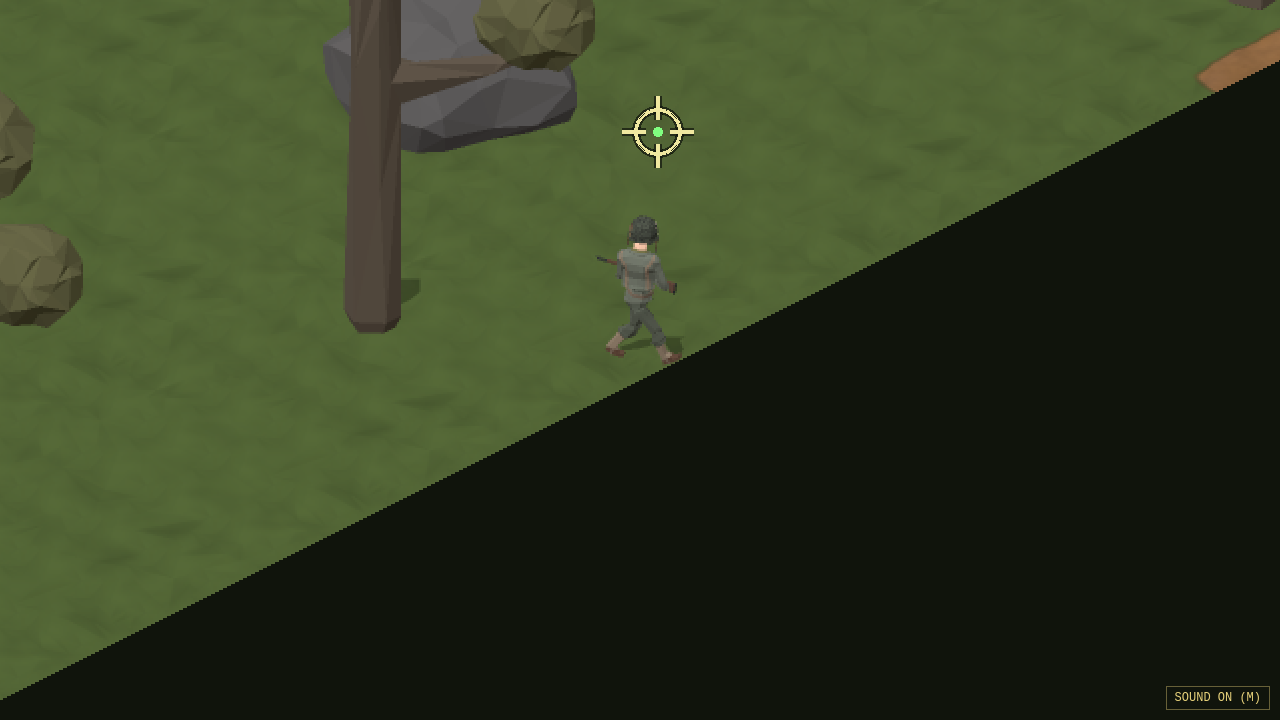
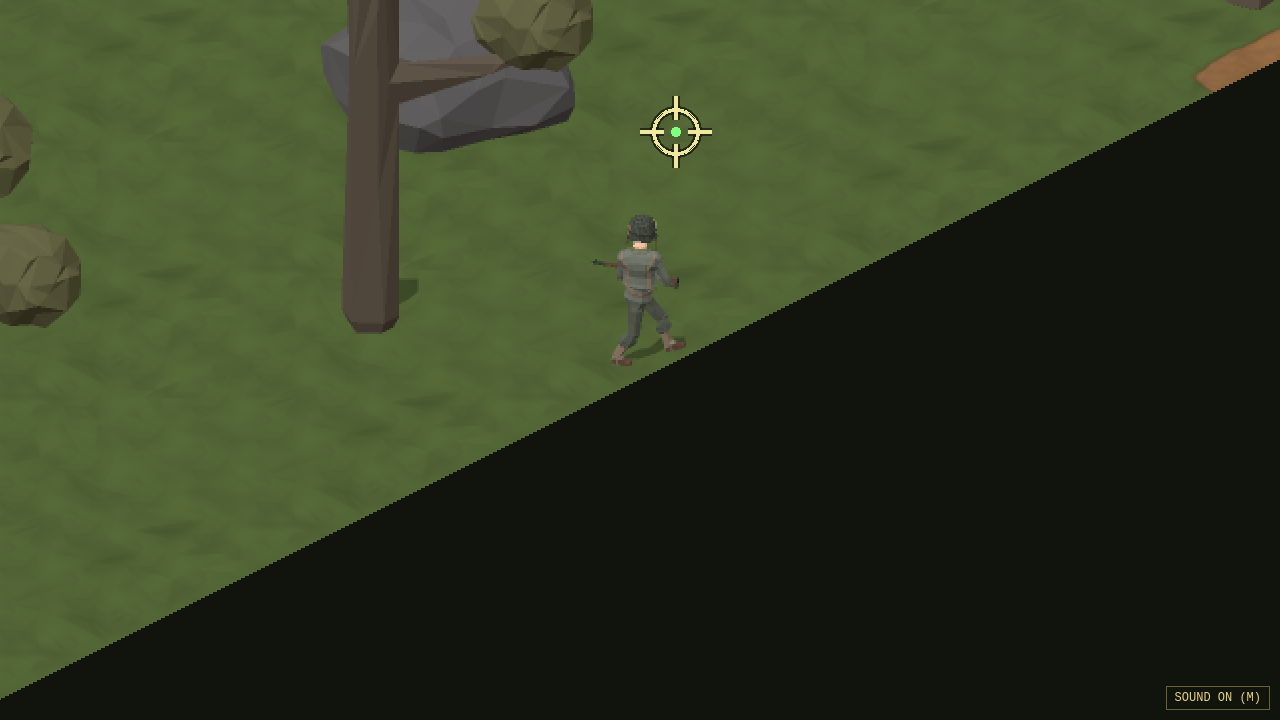
G17: one ranger declaration with split.whole (FB-126 verified): the whole body, ranger_legs and ranger_torso from one render and one framing; ranger_split removed; build-assets enters a whole split as ranger + ranger_legs + ranger_torso; Field.ts and the aim strafe check use them

Changed region(s): [[0.4688, 0.3361, 0.5312, 0.5194], [0.4688, 0.1222, 0.5625, 0.2444]]

diff --git a/src/scenes/Field.ts b/src/scenes/Field.ts
@@ -108,10 +108,10 @@ export type Cause = 'rifle' | 'grenade' | 'law' | 'bomb' | 'knife' | 'enemy'; //
 
 export type Pt = { x: number; y: number };
 
-/** G14: the commando split at the waist (FB-124, `ranger_split` in ssg.assets.json): legs and torso sheets. A second
- * sprite next to the whole-body `ranger`: a split export has no whole-body sheet (FB-126). */
-const SPLIT_LEGS = 'ranger_split_legs';
-const SPLIT_TORSO = 'ranger_split_torso';
+/** G14: the commando split at the waist (FB-124): legs and torso sheets, rendered with the whole-body `ranger` and its
+ * framing from the one `ranger` declaration (`split.whole`, FB-126 verified). */
+const SPLIT_LEGS = 'ranger_legs';
+const SPLIT_TORSO = 'ranger_torso';
 
 /** A prop on the field: its collision polygon in world metres and its screen outline for depth sorting. */
 export interface Placed {

diff --git a/FEEDBACK.md b/FEEDBACK.md
@@ -1052,9 +1052,9 @@ Status: `open` → `triaged (TODO: …)` → `fixed (<commit>)` → `verified` (
 - Tried: FB-124's waist split for G14 (strafing under mouse aim): `"split": { "at": "waist", "legs": ["idle", "walk", "run"], "torso": ["idle", "walk", "run", "shoot", "reload", "throw", "shoulder_fire"] }` on the commando, `node scripts/build-assets.mjs ranger_split`. The split itself works: batch rendered in 23 s on the shared runner, `ranger_split/legs/rifle_walk_E` + `ranger_split/torso/rifle_walk_N` composite with the torso's `waist` socket exactly on the legs' (0 px off in load-check), sockets and events land on the right sheet (`shoot` / `release` / `reload` and `weapon_tip` on the torso, footsteps on the legs), `--split-legs`/`--split-torso` move names without the moveset prefix match the per-clip `as` groups (`throw` → `grenade_throw`).
 - Wanted: one sprite that gives both the whole-body sheet (keyboard and touch play, prone, crawl, the knife, kneeling bomb and first aid, death) and the legs + torso sheets (mouse aim), e.g. `"split": { "at": "waist", …, "whole": true }`, sharing one framing and one render of the frames both need.
 - Got: with `split` the export is only `<base>_legs` + `<base>_torso`, so the game declares the same model, outfit and moves a second time (`ranger_split` next to `ranger` in `ssg.assets.json`) and has to keep the two in step by hand; 976 more frames and about 2.3 MB more atlas. (Drawing every move from the two halves instead would mean two sprites per frame for the whole game and every whole-body clip on both sheets.)
-- Workaround: `ranger_split` declared next to `ranger` (same asset, `with`, clips; the LAW as standing `shoulder_fire` on the split one); `scripts/build-assets.mjs` enters its halves as `ranger_split_legs` / `ranger_split_torso` in the manifest; `src/scenes/Field.ts` hides the whole-body sprite while the split pair is drawn.
+- Workaround (removed in G17): `ranger_split` declared next to `ranger` (same asset, `with`, clips; the LAW as standing `shoulder_fire` on the split one); `scripts/build-assets.mjs` enters its halves as `ranger_split_legs` / `ranger_split_torso` in the manifest; `src/scenes/Field.ts` hides the whole-body sprite while the split pair is drawn.
 - Suggested change: `split.whole: true` (MCP and CLI `--split-whole`) to also write the whole-body sheet from the same job; or let one sprite name a split companion so `sprite apply` keeps their model, items and shared clips in step.
-- Status: triaged (TODO: Inbox FB-126)
+- Status: verified (G17). Re-test: one `ranger` declaration with `"split": { "at": "waist", "whole": true, "legs": ["idle", "walk", "run"], "torso": ["idle", "walk", "run", "shoot", "reload", "throw", "shoulder_fire"] }` (`ranger_split` removed); `node scripts/build-assets.mjs ranger` rendered one batch (whole 1600 + legs 304 + torso 672 = 2576 frames, 81 s) and wrote all three sheets to `public/assets/ranger/` with one framing (178×212, same pivot). The manifest has `ranger` (all 15 clips), `ranger_legs` (idle, walk, run) and `ranger_torso` (the 7 listed moves); prone, crawl, death, the knife, bomb, first aid and camera stay whole-only as documented, and the `shoulder_fire:kneel=1` LAW template serves both the kneeling whole-body clip and the torso clip (the torso frames match G14's standing ones). Keys `ranger/legs/rifle_walk_E` + `ranger/torso/rifle_walk_N` pass the aim strafe check. Atlas: before `ranger` 4094×2074 (5.50 MB) + `ranger_split` legs 626×2413 (0.65 MB) + torso 3883×1054 (1.72 MB) = 7.87 MB PNG; after 4094×2111 (5.65 MB) + 626×2413 (0.65 MB) + 3652×985 (1.70 MB) = 8.01 MB. One declaration instead of two, nothing to keep in step by hand. Note: the batch reported `whole: rendering 1600 frames (none cached)` / `reused 0 of 2576 frames`, though the plain `ranger` v4 had rendered the same whole-body frames (README: "frames an earlier plain export rendered are re-used"); possibly the cache key changed with the exporter version, so not filed.
 
 ## FB-128 · `map route --clearance` counts from the footprints of trees and bushes, so any clearance shuts a thicket
 - Severity: workaround        Milestone: wave 16 (G16)

diff --git a/CLAUDE.md b/CLAUDE.md
@@ -37,7 +37,7 @@ and to find its gaps. Game design: `docs/DESIGN.md`. The orchestration loop: the
   select → enlist → mission select), `field`, `mission`, `mission2`, `mission3`, `mission4`, `mission5`…`mission8` (G8 objectives: code book, officer, SAM site, P.O.W. camp), `mission9`–`mission12` (photo, hostages, diversion, sabotage with their failure rules; `scripts/g8b-checks.mjs`) (each plays to the debriefing; mission 4 also checks the driving
   truck, its wreck and the animated props), and `arsenal` (G7: the supply pod screen, pods, reload, first aid, knife, LAW,
   time bomb, then the same by touch on an emulated iPhone in landscape), and `aim` (G12 mouse aim; G14: walking east
-  while aiming north draws the waist-split `ranger_split` legs E and torso N, `docs/screenshots/g14-strafe.png`). G9: `g9` (the test field's machine-gun nest, mines, trench, tank, alerts and alarm). It
+  while aiming north draws the waist-split `ranger_legs` E and `ranger_torso` N (one `ranger` declaration with `split.whole`, G17), `docs/screenshots/g14-strafe.png`). G9: `g9` (the test field's machine-gun nest, mines, trench, tank, alerts and alarm). It
   needs no page errors, and it writes `test-results/<scene>.png`.
 - Big maps (G6): `node scripts/route-check.mjs [--walk <url>]` (the shortest walkable route per mission, and running it
   in the game) and `node scripts/perf-check.mjs <url> [missions] [--phone] [--gpu]` (frame rate and CPU per frame).
